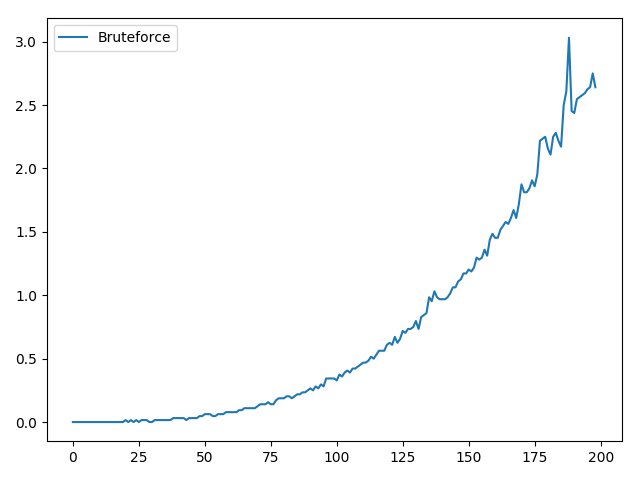
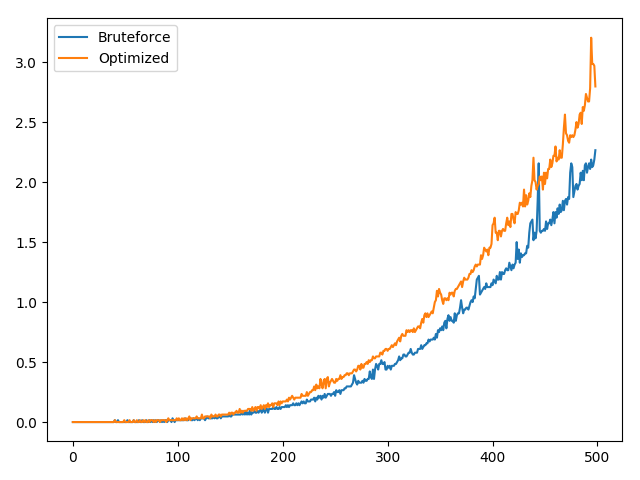
update triangle searches

diff --git a/triangle_search_runtime_comparsion.py b/triangle_search_runtime_comparsion.py
@@ -7,29 +7,31 @@ import time
 import random
 import matplotlib.pyplot as plt
 
-# Test/debug data
-#        A  B  C  D
-graph1 = [[0, 1, 1, 1], #A
-         [1, 0, 1, 0],  #B
-         [1, 1, 0, 1],  #C
-         [1, 0, 1, 0]]  #D
-#         A  B  C  D        
-graph2 = [[0, 1, 1, 0], #A
-         [1, 0, 1, 0],  #B
-         [1, 1, 0, 0],  #C
-         [0, 0, 0, 0]]  #D
-#         A  B  C  D       
-graph3 = [[0, 1, 1, 0], #A
-         [1, 0, 1, 0],  #B
-         [1, 1, 0, 1],  #C
-         [0, 0, 1, 0]]  #D
-#        A  B  C  D  E     
-graph4 = [[0, 0, 1, 1, 1], #A
-         [0, 0, 0, 1, 0],  #B
-         [1, 0, 0, 0, 1],  #C
-         [1, 1, 0, 0, 1],  #D
-         [1, 0, 1, 1, 0]]  #E
 
+NSIZE = 500
+
+# Test/debug data
+#          A  B  C  D
+graph1 = [[0, 1, 1, 1], #A
+          [1, 0, 1, 0], #B
+          [1, 1, 0, 1], #C
+          [1, 0, 1, 0]] #D
+#          A  B  C  D        
+graph2 = [[0, 1, 1, 0], #A
+          [1, 0, 1, 0], #B
+          [1, 1, 0, 0], #C
+          [0, 0, 0, 0]] #D
+#          A  B  C  D       
+graph3 = [[0, 1, 1, 0], #A
+          [1, 0, 1, 0], #B
+          [1, 1, 0, 1], #C
+          [0, 0, 1, 0]] #D
+#          A  B  C  D  E     
+graph4 = [[0, 0, 1, 1, 1], #A
+          [0, 0, 0, 1, 0], #B
+          [1, 0, 0, 0, 1], #C
+          [1, 1, 0, 0, 1], #D
+          [1, 0, 1, 1, 0]] #E
 
 def get_graph(nsize):
     """generate random graph"""
@@ -37,7 +39,7 @@ def get_graph(nsize):
     for i in range(0, nsize):
         row = []
         for j in range(0, nsize):
-            rnd_v = 0 if random.random() > 0.5 else 1
+            rnd_v = 0 if random.random() > 0.4 else 1
             row.append(rnd_v)
         result.append(row)
     for i in range(0, nsize):
@@ -46,48 +48,93 @@ def get_graph(nsize):
             result[i][j] = result[j][i]
     return result
 
-
-def find_triangles1(graph):
+def find_triangles1(graph, n):
     """ bruteforce search triangles"""
     triangles = []
-    for i in range(0, len(graph)-1):
-        for j in range(i+1, len(graph)):
-            if graph[i][j] == 1:
-                for k in range(j+1, len(graph)):
-                    if graph[i][k] == 1:
-                        if graph[k][j] == 1:
-                            triangles.append([i, j])
-                            triangles.append([i, k])
-                            triangles.append([j, k])
+    for i in range(0, n-1):
+        for j in range(i+1, n-1):
+            if graph[i][j] > 0:
+                for k in range(j+1, n):
+                    if graph[i][k] > 0 and graph[k][j] > 0:
+                        triangles.append([i, j, k])
     return triangles
 
-def get_calc_time(func, steps):
+def find_triangles2(graph , n):
+    """ bruteforce search triangles cycle by indexes"""
+    triangles = []
+    for i in range(0, n-1):
+        for j in range(i+1, n-1):
+            if graph[i][j] > 0:
+                pervious_index = j
+                if graph[i][j] > 1:
+                    k = graph[i][j]
+                else:
+                    k = j + 1
+                while True:
+                    if graph[i][k] > 0:
+                        if graph[i][pervious_index] == 1:
+                            graph[i][pervious_index] = k
+                            pervious_index = k
+                        if graph[k][j] > 0:
+                            triangles.append([i, j, k])
+                    if graph[i][k] > 1:
+                        k = graph[i][k]
+                    else:
+                        k = k + 1
+                    if k > n - 1:
+                        break
+    return triangles
+
+#def find_triangles3(graph, n):
+#    """"""
+#    triangles = []
+##    edges = {}
+#    for i in range(0, n):
+#        edge = []
+#        for j in range(i, n):
+#            if(graph[i,j]>0):
+#                edge.append(j)
+#        edges[i] = edge                             #     0 ->  2,3,4
+#    for edge in list(edges.keys()):                 #     2 ->  0,3
+#        for i in len(edges[edge]):                  #     3 ->  0,2
+#            if                                      #     4 ->  0
+    
+
+
+
+def get_calc_time(func, full_size_graph, steps):
     """Mesure computation time"""
     result = []
     for i in range(1, steps):
-        graph = get_graph(i)
         start_calc = time.process_time()
-        func(graph)
+        func(full_size_graph, i)
         result.append(time.process_time()-start_calc)
     return result
 
 
 #def test():
 #    """test"""
-#    print find_triangles(graph1)
+#    gr = get_graph(30)
+#    print(len(find_triangles1(gr)))
+#    find_triangles2(gr)
+#    print(gr)
 #    print find_triangles(graph2)
 #    print find_triangles(graph3)
 #    print find_triangles(graph4)
 
 
-def run_and_plot(steps):
+def run_and_plot():
     """Run & plot"""
-    plot1 = get_calc_time(find_triangles1, steps)
-
-    plt.plot(plot1, label="Bruteforce")
-
+    res1 = get_calc_time(find_triangles1, RND_GRAPH, NSIZE)
+    res2 = get_calc_time(find_triangles2, RND_GRAPH, NSIZE)
+    plt.plot(res1, label="Bruteforce")
+    plt.plot(res2, label="Optimized")
     plt.tight_layout()
     plt.legend()
-    plt.show()
 
-run_and_plot(200)
+if __name__ == '__main__':
+    RND_GRAPH = get_graph(NSIZE)
+    #test()
+    run_and_plot()
+    #run_and_plot_multiproc()
+    plt.show()
